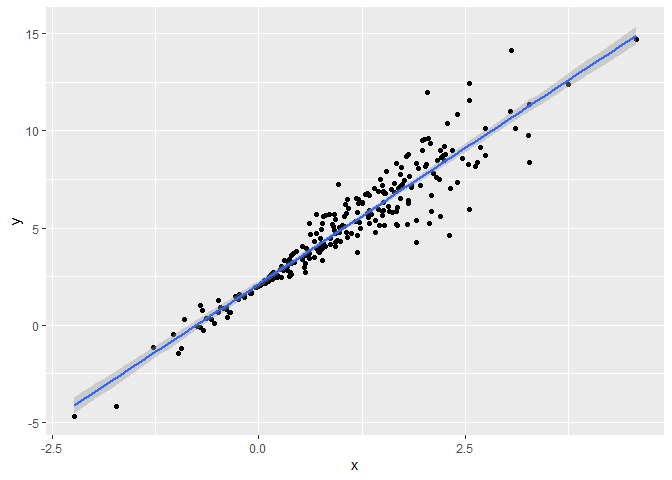
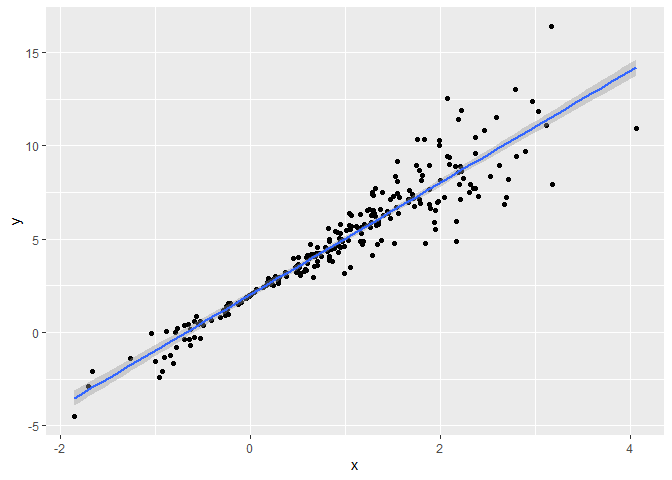
bootstrapping

diff --git a/bootstrap.md b/bootstrap.md
@@ -78,8 +78,8 @@ lm(y~x, data = sim_df_const) %>%  broom::tidy()
     ## # A tibble: 2 × 5
     ##   term        estimate std.error statistic   p.value
     ##   <chr>          <dbl>     <dbl>     <dbl>     <dbl>
-    ## 1 (Intercept)     1.96    0.0929      21.1 3.66e- 57
-    ## 2 x               2.96    0.0641      46.2 6.79e-124
+    ## 1 (Intercept)     2.26    0.0834      27.0 6.47e- 76
+    ## 2 x               2.90    0.0593      48.9 2.76e-129
 
 ``` r
 lm(y~x, data = sim_df_nonconst) %>%  broom::tidy()
@@ -88,8 +88,8 @@ lm(y~x, data = sim_df_nonconst) %>%  broom::tidy()
     ## # A tibble: 2 × 5
     ##   term        estimate std.error statistic   p.value
     ##   <chr>          <dbl>     <dbl>     <dbl>     <dbl>
-    ## 1 (Intercept)     2.12    0.0891      23.7 8.17e- 66
-    ## 2 x               2.80    0.0615      45.5 1.90e-122
+    ## 1 (Intercept)     2.03    0.0941      21.6 5.77e- 59
+    ## 2 x               3.00    0.0670      44.8 7.02e-121
 
 ``` r
 # from our plots we can see that there is alot of uncertainty because of fanning out. We can get estimates and stand deviation if we were to make assumptions but we want to solve the issue of uncertainty by bootstrapping. Issue is that we also don't trust the uncertainty of the estimates.
@@ -118,6 +118,12 @@ bootstrap_sample(sim_df_nonconst) %>%
 
     ## `geom_smooth()` using formula = 'y ~ x'
 
+    ## Warning: Removed 1 row containing non-finite outside the scale range
+    ## (`stat_smooth()`).
+
+    ## Warning: Removed 1 row containing missing values or values outside the scale range
+    ## (`geom_point()`).
+
 ![](bootstrap_files/figure-gfm/unnamed-chunk-6-1.png)<!-- -->
 
 ``` r
@@ -135,9 +141,141 @@ bootstrap_sample(sim_df_nonconst) %>%
     ## # A tibble: 2 × 5
     ##   term        estimate std.error statistic   p.value
     ##   <chr>          <dbl>     <dbl>     <dbl>     <dbl>
-    ## 1 (Intercept)     2.06    0.0864      23.8 5.31e- 66
-    ## 2 x               2.80    0.0577      48.6 1.09e-128
+    ## 1 (Intercept)     1.92    0.0849      22.6 2.66e- 62
+    ## 2 x               3.01    0.0637      47.1 8.60e-126
 
 ``` r
 # not a cohesive way of analysis
 ```
+
+## Many samples and analysis
+
+``` r
+boot_straps =
+  tibble(
+  strap_number = 1:1000,
+  strap_sample = rerun( 1000, bootstrap_sample(sim_df_nonconst))
+  )
+```
+
+    ## Warning: `rerun()` was deprecated in purrr 1.0.0.
+    ## ℹ Please use `map()` instead.
+    ##   # Previously
+    ##   rerun(1000, bootstrap_sample(sim_df_nonconst))
+    ## 
+    ##   # Now
+    ##   map(1:1000, ~ bootstrap_sample(sim_df_nonconst))
+    ## This warning is displayed once every 8 hours.
+    ## Call `lifecycle::last_lifecycle_warnings()` to see where this warning was
+    ## generated.
+
+``` r
+# once we've gotten here with a dataframe we're right back in place. Can do the same things we did. 
+```
+
+Can I run my analysis on these?
+
+``` r
+boot_results =
+    boot_straps %>% 
+  mutate(
+    
+    models = map(.x = strap_sample, ~lm( y~x, data = .x)), 
+    results = map(models, broom::tidy)
+  ) %>% 
+  select(strap_number, results) %>% 
+  unnest(results)
+
+# code works we have not double checked if they are different but we will trust. next we'll get a collection of results where we will map across models and just run broom tidy on each. 
+```
+
+What do I have now? Distribution of estimated intercept and slope. So
+under repeated sampling that the variances are closer to the actual
+variance if we were to compute the standard error ( standard deviation
+of estimate) under repeated sampling.
+
+``` r
+boot_results %>% 
+  group_by(term) %>% 
+  summarize(
+    
+    mean_est = mean(estimate),
+    sd_est = sd(estimate)
+  )
+```
+
+    ## # A tibble: 2 × 3
+    ##   term        mean_est sd_est
+    ##   <chr>          <dbl>  <dbl>
+    ## 1 (Intercept)     2.03 0.0592
+    ## 2 x               3.00 0.0989
+
+``` r
+# giving the actual standard error and can we mimic this without making an assumption. Previously we have used a linear model that is a coincidence rather than what happens. If we compare bootstrap this is lower is we assumed constant variance which we have done in this example where we assume constant variance. 
+```
+
+Constructing a confidence interval and looking at distributions
+
+``` r
+boot_results %>% 
+  filter( term == "x") %>% 
+  ggplot(aes(x = estimate))+
+  geom_density()
+```
+
+![](bootstrap_files/figure-gfm/unnamed-chunk-11-1.png)<!-- -->
+
+``` r
+#great bc data of repeated sampling and normally distributed 
+```
+
+Construct bootstrap CI
+
+``` r
+boot_results %>% 
+  group_by(term) %>% 
+  summarize(
+    
+   ci_lower = quantile(estimate, 0.025),
+    ci_upper = quantile(estimate, 0.975)
+  )
+```
+
+    ## # A tibble: 2 × 3
+    ##   term        ci_lower ci_upper
+    ##   <chr>          <dbl>    <dbl>
+    ## 1 (Intercept)     1.92     2.15
+    ## 2 x               2.81     3.20
+
+``` r
+# we get a CI based on repeated sampling and this gives about 2.91 and 3.31
+```
+
+## Bootstrap using modelr
+
+use modelr to increase process of drawing repeated samples. Can we
+simplify anything?
+
+``` r
+sim_df_nonconst %>% 
+  bootstrap(1000,id = "strap_number") %>%   #resample and in cross validation we turned into a df, we can do the same thing before 
+mutate(
+    
+    models = map(.x = strap, ~lm( y~x, data = .x)), 
+    results = map(models, broom::tidy)
+  ) %>% 
+  select(strap_number, results) %>% 
+  unnest(results) %>%   
+  group_by(term) %>% 
+  summarize(
+    
+    mean_est = mean(estimate),
+    sd_est = sd(estimate)
+  )
+```
+
+    ## # A tibble: 2 × 3
+    ##   term        mean_est sd_est
+    ##   <chr>          <dbl>  <dbl>
+    ## 1 (Intercept)     2.03 0.0607
+    ## 2 x               3.00 0.0922
